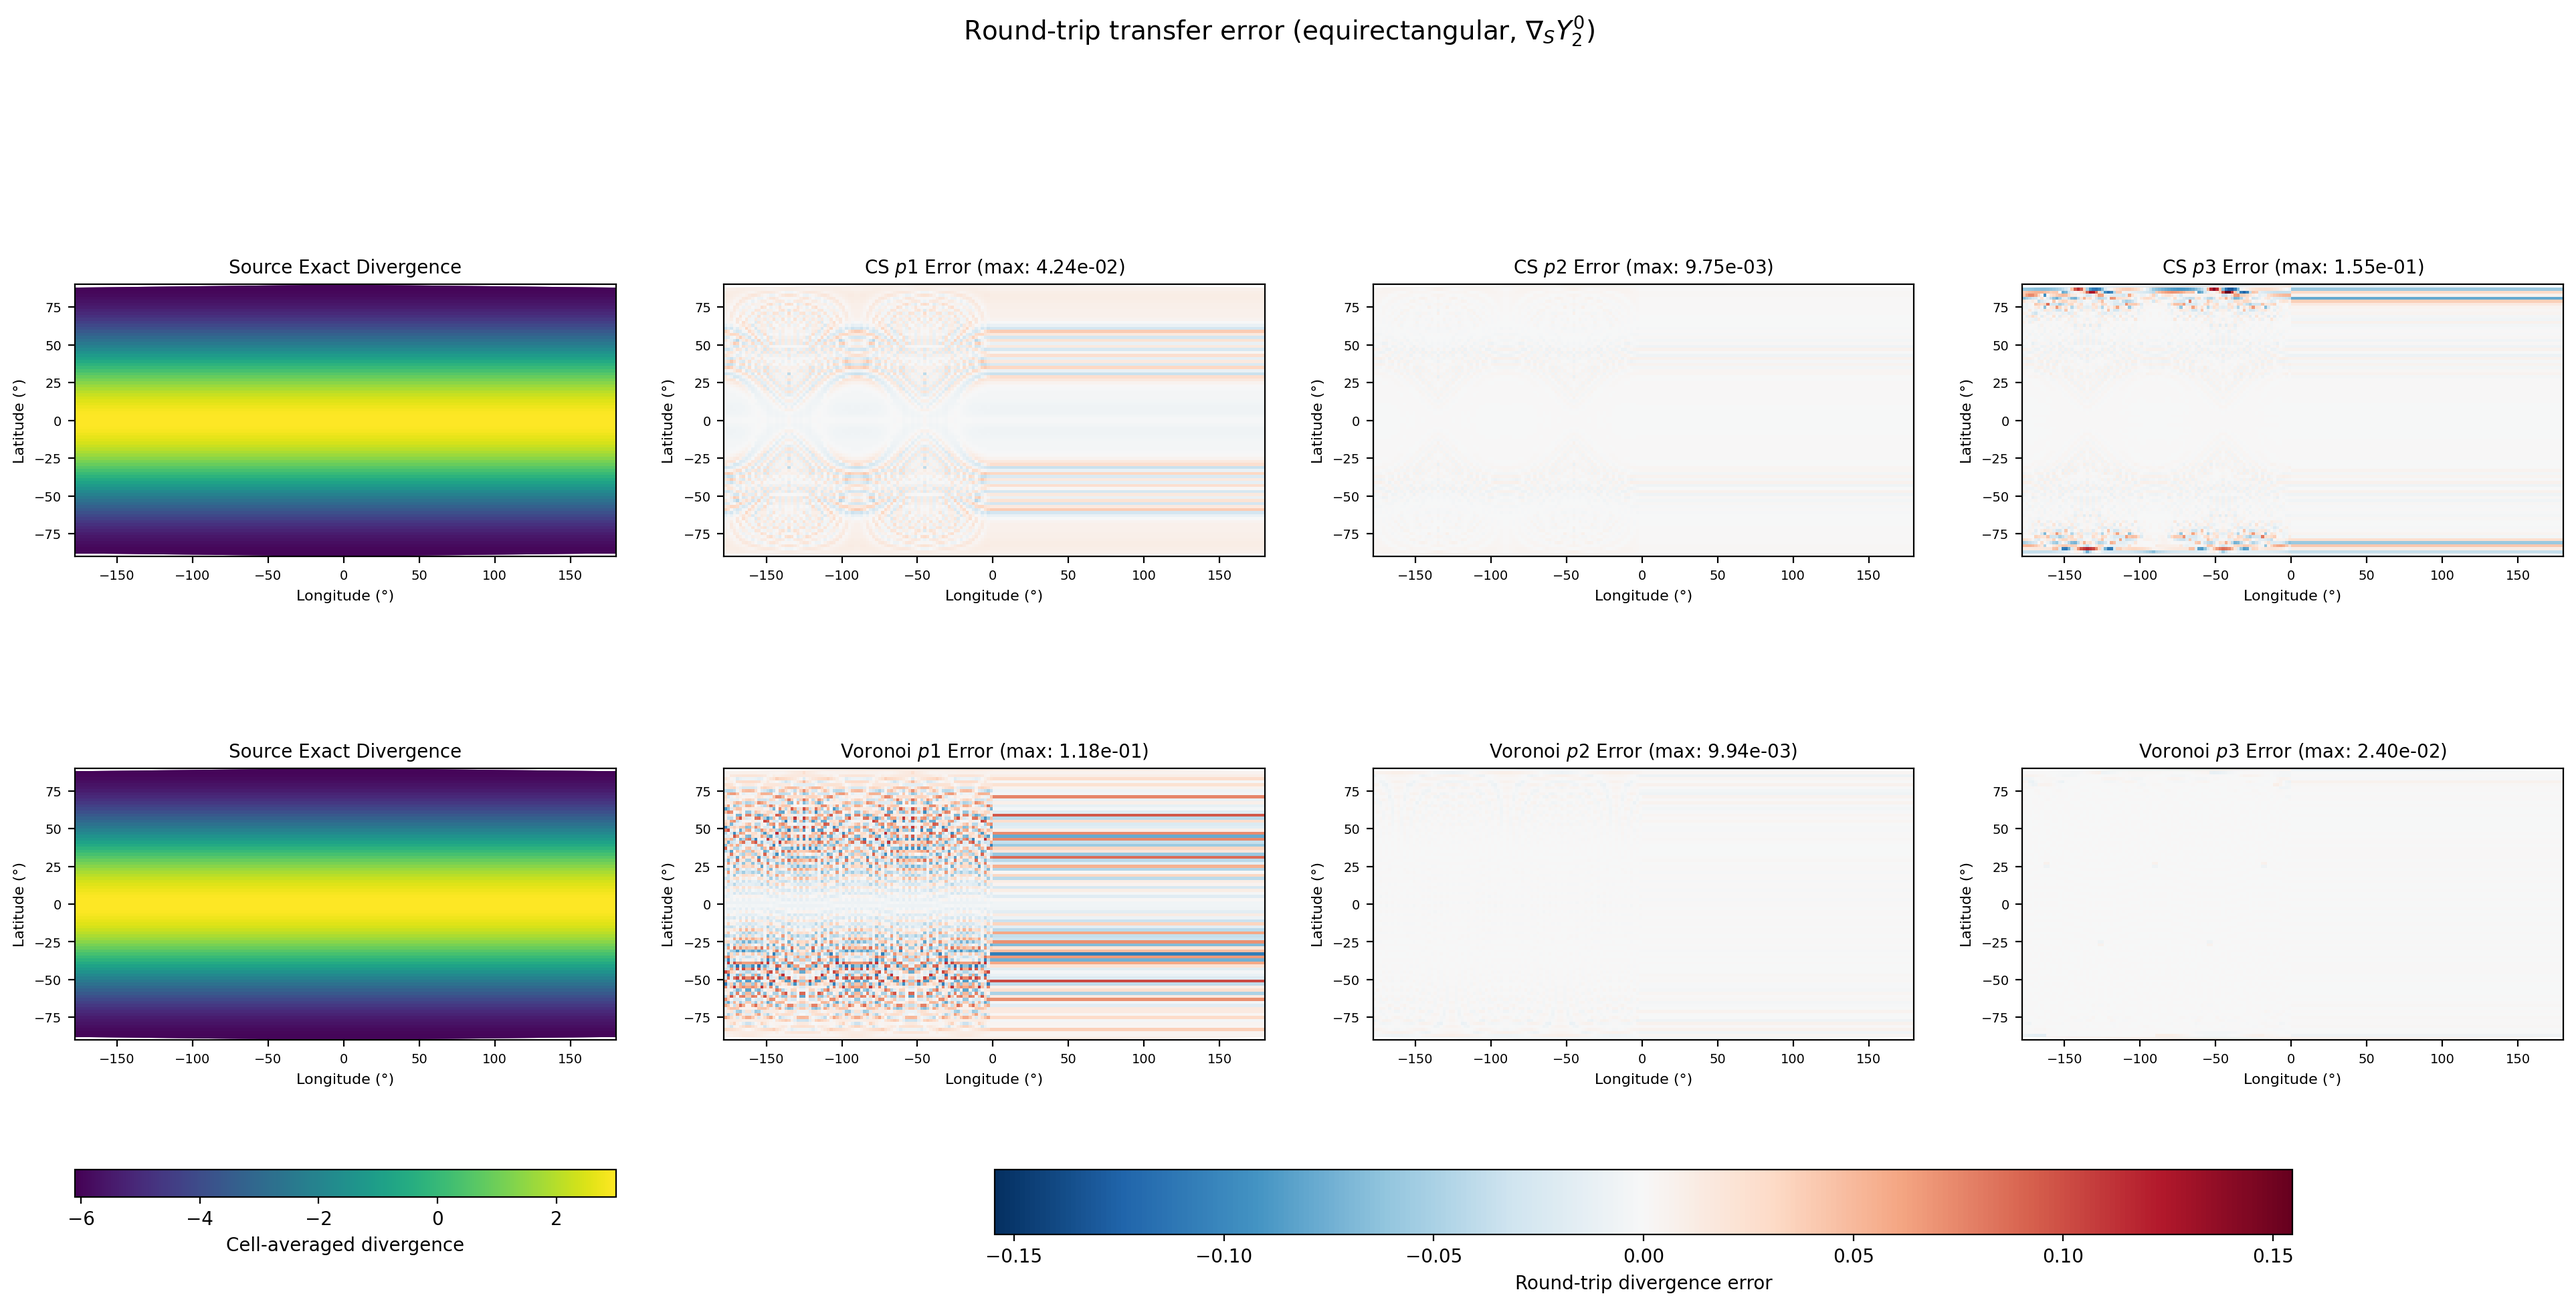
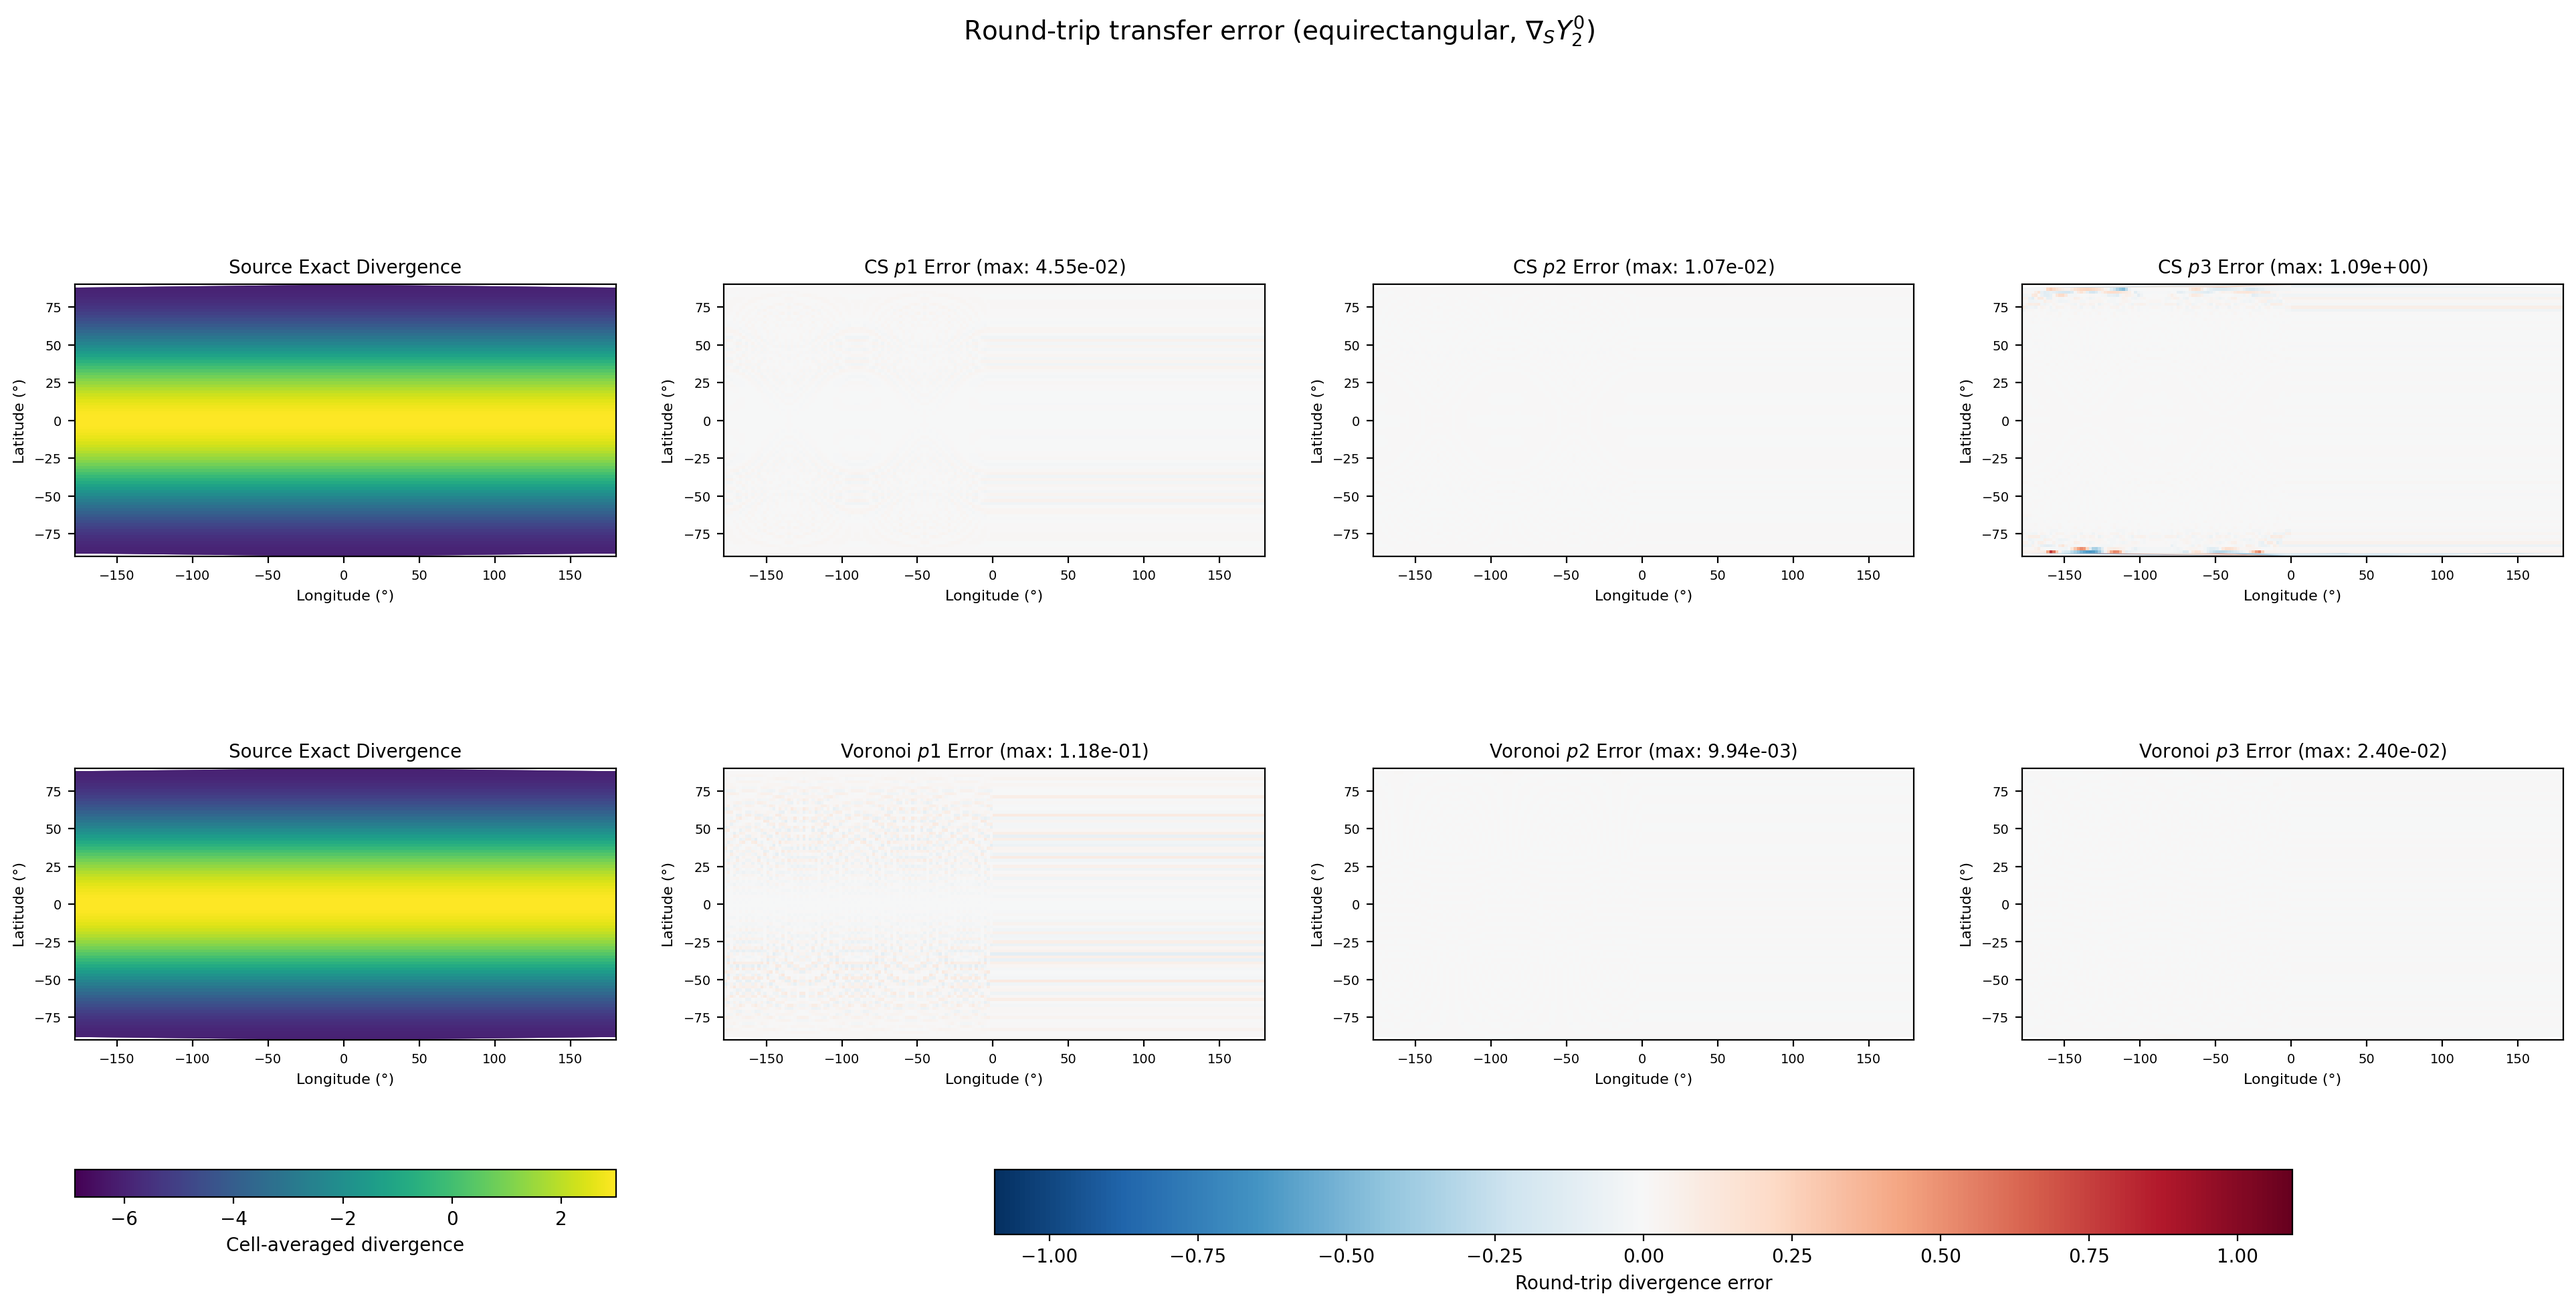
Test n=51 CS to rule out pole-coincidence hypothesis
Changed CS from n=52 to n=51 (odd) to test whether the p=3 polar
error was caused by coincident RLL/CS vertices at poles.

Result: CS p=3 error increased from 1.55e-01 to 1.09e+00, ruling
out the coincidence hypothesis. The instability is caused by
cell-moment transfer quality on distorted 4-sided cells near
cubed-sphere corners, not by mesh alignment.

CS p=1 and p=2 are essentially unchanged (4.55e-02, 1.07e-02),
confirming p=2 as the practical optimum for CS quad round-trips.

diff --git a/tests/dump_visuals.cpp b/tests/dump_visuals.cpp
@@ -1661,7 +1661,7 @@ int main(int argc, char** argv)
 
             moab::Core mb;
             const auto ll = generate_latlon_grid(mb, 180, 90);
-            const auto cs = mimetic::test_sphere::generate_cubed_sphere(mb, 52);
+            const auto cs = mimetic::test_sphere::generate_cubed_sphere(mb, 51);
             const auto vor = mimetic::test_sphere::generate_icosahedral_dual(mb, 20);
 
             std::cout << "  lat/lon: " << ll.size() << ", CS: " << cs.size()
